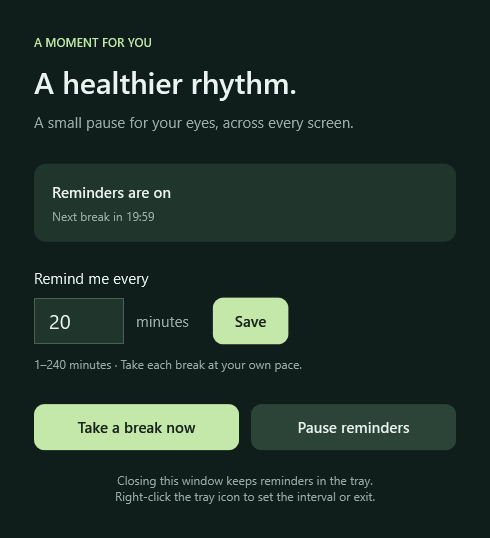
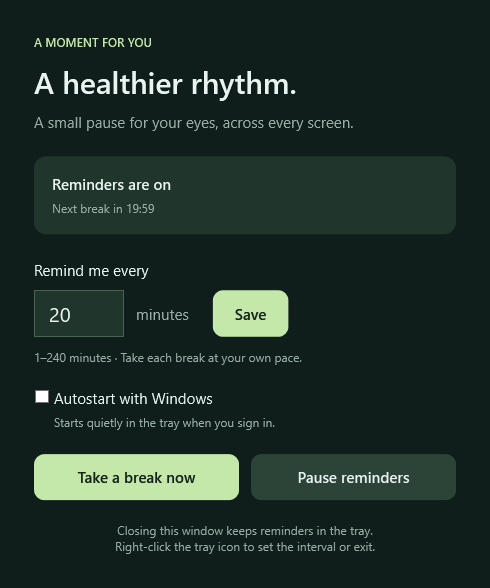
Add optional Windows autostart with quiet tray launch

diff --git a/SettingsWindow.xaml b/SettingsWindow.xaml
@@ -1,4 +1,4 @@
-<Window x:Class="MomentForYou.SettingsWindow" xmlns="http://schemas.microsoft.com/winfx/2006/xaml/presentation" xmlns:x="http://schemas.microsoft.com/winfx/2006/xaml" Title="A moment for you" Icon="Assets/MomentForYou.ico" Style="{StaticResource {x:Type Window}}" Width="490" Height="570" MinWidth="440" MinHeight="540" ResizeMode="CanMinimize" WindowStartupLocation="CenterScreen" Closing="OnClosing">
+<Window x:Class="MomentForYou.SettingsWindow" xmlns="http://schemas.microsoft.com/winfx/2006/xaml/presentation" xmlns:x="http://schemas.microsoft.com/winfx/2006/xaml" Title="A moment for you" Icon="Assets/MomentForYou.ico" Style="{StaticResource {x:Type Window}}" Width="490" Height="620" MinWidth="440" MinHeight="600" ResizeMode="CanMinimize" WindowStartupLocation="CenterScreen" Closing="OnClosing">
   <Grid Margin="34" TextElement.Foreground="{StaticResource Ink}">
     <Grid.RowDefinitions><RowDefinition Height="Auto"/><RowDefinition/><RowDefinition Height="Auto"/></Grid.RowDefinitions>
     <StackPanel>
@@ -11,6 +11,8 @@
       <TextBlock Text="Remind me every" FontSize="15" Margin="0,0,0,10"/>
       <StackPanel Orientation="Horizontal"><TextBox x:Name="Interval" Text="20" Width="90" Padding="12,9" FontSize="20" Background="#20362D" Foreground="{StaticResource Ink}" BorderBrush="#4B6252" MaxLength="3" AutomationProperties.Name="Reminder interval in minutes"/><TextBlock Text="minutes" FontSize="15" VerticalAlignment="Center" Foreground="{StaticResource Muted}" Margin="12,0,0,0"/><Button Content="Save" Click="OnSave" Margin="24,0,0,0" Padding="22,10"/></StackPanel>
       <TextBlock x:Name="Feedback" Text="1–240 minutes · Take each break at your own pace." FontSize="12" TextWrapping="Wrap" Foreground="{StaticResource Muted}" Margin="0,12,0,0"/>
+      <CheckBox x:Name="Autostart" Content="Autostart with Windows" Click="OnAutostart" Foreground="{StaticResource Ink}" FontSize="15" Cursor="Hand" Margin="0,24,0,0" AutomationProperties.Name="Autostart with Windows"/>
+      <TextBlock Text="Starts quietly in the tray when you sign in." FontSize="12" Foreground="{StaticResource Muted}" Margin="20,6,0,0"/>
     </StackPanel>
     <StackPanel Grid.Row="2">
       <Grid><Grid.ColumnDefinitions><ColumnDefinition/><ColumnDefinition Width="12"/><ColumnDefinition/></Grid.ColumnDefinitions><Button Content="Take a break now" Click="OnBreakNow" Padding="14,13"/><Button x:Name="PauseButton" Grid.Column="2" Content="Pause reminders" Click="OnPause" Background="#2C4438" Foreground="{StaticResource Ink}" Padding="14,13"/></Grid>

diff --git a/SelfTests.cs b/SelfTests.cs
@@ -10,6 +10,7 @@ using System.Windows.Interop;
 using System.Windows.Media;
 using System.Windows.Media.Imaging;
 using System.Windows.Navigation;
+using Microsoft.Win32;
 
 namespace MomentForYou;
 
@@ -226,6 +227,46 @@ internal static class SelfTests
             }
         });
         Test("Native tray icon, menu, pause and resume", () => ((App)Application.Current).VerifyTray());
+        Test("Autostart quotes paths, runs quietly, and removes only its own entry", () =>
+        {
+            var keyPath = @"Software\MomentForYou.AutostartTest-" + Guid.NewGuid().ToString("N");
+            var startup = new WindowsStartup(keyPath);
+            try
+            {
+                Assert(!startup.IsEnabled, "Autostart should be off without an entry.");
+                Assert(WindowsStartup.CreateCommand(@"C:\Program Files\A moment for you\A moment for you.exe") == "\"C:\\Program Files\\A moment for you\\A moment for you.exe\" --tray", "Autostart command is not quoted or quiet.");
+                startup.SetEnabled(true);
+                Assert(new WindowsStartup(keyPath).IsEnabled, "Autostart did not persist.");
+                using (var key = Registry.CurrentUser.OpenSubKey(keyPath, writable: true))
+                {
+                    Assert((string?)key!.GetValue("A moment for you") == WindowsStartup.CreateCommand(Environment.ProcessPath!), "Autostart did not use the running executable.");
+                    key.SetValue("Other app", "Keep this value");
+                }
+                startup.SetEnabled(false);
+                Assert(!startup.IsEnabled, "Autostart was not disabled.");
+                using var remaining = Registry.CurrentUser.OpenSubKey(keyPath);
+                Assert((string?)remaining?.GetValue("Other app") == "Keep this value", "Disabling autostart changed another entry.");
+            }
+            finally { Registry.CurrentUser.DeleteSubKey(keyPath, throwOnMissingSubKey: false); }
+        });
+        Test("Settings checkbox toggles autostart without enabling real Windows startup", () =>
+        {
+            var keyPath = @"Software\MomentForYou.AutostartTest-" + Guid.NewGuid().ToString("N");
+            var startup = new WindowsStartup(keyPath);
+            var window = new SettingsWindow((App)Application.Current, startup);
+            try
+            {
+                var checkbox = (CheckBox)window.FindName("Autostart");
+                Assert(checkbox.IsChecked == false, "Autostart checkbox should default to off.");
+                checkbox.IsChecked = true;
+                checkbox.RaiseEvent(new RoutedEventArgs(System.Windows.Controls.Primitives.ButtonBase.ClickEvent));
+                Assert(startup.IsEnabled, "Checkbox did not enable autostart.");
+                checkbox.IsChecked = false;
+                checkbox.RaiseEvent(new RoutedEventArgs(System.Windows.Controls.Primitives.ButtonBase.ClickEvent));
+                Assert(!startup.IsEnabled, "Checkbox did not disable autostart.");
+            }
+            finally { window.Hide(); Registry.CurrentUser.DeleteSubKey(keyPath, throwOnMissingSubKey: false); }
+        });
         Test("Version, author credit and homepage remain in the lower-right corner at common display scales", () =>
         {
             var window = new BreakWindow(() => { });
@@ -280,7 +321,7 @@ internal static class SelfTests
                 var outer = new System.Windows.Controls.Border { Background = settings.Background, Child = null };
                 settings.Content = null;
                 outer.Child = content;
-                RenderElement(outer, Path.Combine(directory, "settings-preview.png"), 490, 538);
+                RenderElement(outer, Path.Combine(directory, "settings-preview.png"), 490, 588);
             }
             finally { settings.Hide(); }
         }

diff --git a/SettingsWindow.xaml.cs b/SettingsWindow.xaml.cs
@@ -1,5 +1,7 @@
 using System;
 using System.ComponentModel;
+using System.IO;
+using System.Security;
 using System.Windows;
 
 namespace MomentForYou;
@@ -7,11 +9,23 @@ namespace MomentForYou;
 public partial class SettingsWindow : Window
 {
     private readonly App app;
-    public SettingsWindow(App app)
+    private readonly WindowsStartup startup;
+    private bool startupEnabled;
+
+    public SettingsWindow(App app) : this(app, new WindowsStartup()) { }
+
+    internal SettingsWindow(App app, WindowsStartup startup)
     {
         InitializeComponent();
         this.app = app;
+        this.startup = startup;
         Interval.Text = app.Schedule.IntervalMinutes.ToString();
+        try { Autostart.IsChecked = startupEnabled = startup.IsEnabled; }
+        catch (Exception ex) when (ex is IOException or UnauthorizedAccessException or SecurityException)
+        {
+            Autostart.IsEnabled = false;
+            Feedback.Text = "The Windows autostart setting is unavailable.";
+        }
     }
     public void Refresh()
     {
@@ -29,6 +43,21 @@ public partial class SettingsWindow : Window
         catch (Exception ex) when (ex is System.IO.IOException or UnauthorizedAccessException) { Feedback.Text = "Could not save settings. Check your folder permissions."; }
     }
     private void OnBreakNow(object sender, RoutedEventArgs e) => app.StartBreak();
+    private void OnAutostart(object sender, RoutedEventArgs e)
+    {
+        bool enabled = Autostart.IsChecked == true;
+        try
+        {
+            startup.SetEnabled(enabled);
+            startupEnabled = enabled;
+            Feedback.Text = enabled ? "Autostart enabled. Starts quietly when you sign in." : "Autostart disabled.";
+        }
+        catch (Exception ex) when (ex is IOException or UnauthorizedAccessException or SecurityException or InvalidOperationException)
+        {
+            Autostart.IsChecked = startupEnabled;
+            Feedback.Text = ex is InvalidOperationException ? ex.Message : "Could not change the Windows autostart setting.";
+        }
+    }
     private void OnPause(object sender, RoutedEventArgs e) => app.TogglePause();
     private void OnClosing(object? sender, CancelEventArgs e) { e.Cancel = true; Hide(); }
 }

diff --git a/WindowsStartup.cs b/WindowsStartup.cs
@@ -1,0 +1,53 @@
+using System;
+using System.IO;
+using Microsoft.Win32;
+
+namespace MomentForYou;
+
+internal sealed class WindowsStartup
+{
+    private const string ValueName = "A moment for you";
+    private readonly string keyPath;
+
+    internal WindowsStartup(string keyPath = @"Software\Microsoft\Windows\CurrentVersion\Run")
+    { this.keyPath = keyPath; }
+
+    internal bool IsEnabled
+    {
+        get
+        {
+            using var key = Registry.CurrentUser.OpenSubKey(keyPath);
+            return !string.IsNullOrWhiteSpace(key?.GetValue(ValueName) as string);
+        }
+    }
+
+    internal static string CreateCommand(string executable)
+    {
+        if (!Path.IsPathFullyQualified(executable) ||
+            !string.Equals(Path.GetExtension(executable), ".exe", StringComparison.OrdinalIgnoreCase) ||
+            string.Equals(Path.GetFileName(executable), "dotnet.exe", StringComparison.OrdinalIgnoreCase) ||
+            executable.Contains('"'))
+            throw new InvalidOperationException("Enable autostart from the published app executable.");
+        var command = "\"" + executable + "\" --tray";
+        if (command.Length > 260)
+            throw new InvalidOperationException("Move the app to a shorter folder path before enabling autostart.");
+        return command;
+    }
+
+    internal void SetEnabled(bool enabled)
+    {
+        if (enabled)
+        {
+            var command = CreateCommand(Environment.ProcessPath ??
+                throw new InvalidOperationException("Cannot find the app executable."));
+            using var key = Registry.CurrentUser.CreateSubKey(keyPath) ??
+                throw new IOException("Cannot access the Windows startup setting.");
+            key.SetValue(ValueName, command, RegistryValueKind.String);
+        }
+        else
+        {
+            using var key = Registry.CurrentUser.OpenSubKey(keyPath, writable: true);
+            key?.DeleteValue(ValueName, throwOnMissingValue: false);
+        }
+    }
+}

diff --git a/README.md b/README.md
@@ -43,7 +43,9 @@ This is a break reminder, not a Windows security lock. Windows shortcuts, the se
 
 Your interval is stored locally in `%LOCALAPPDATA%\EyeProtect\settings.json`. The original settings folder is retained so earlier versions keep their saved interval. The app does not send telemetry or make network requests.
 
-The app does not register itself for startup. To launch quietly, create a shortcut to **A moment for you.exe** with `--tray` as an argument; you can place that shortcut in your Windows Startup folder.
+Enable **Autostart with Windows** in settings to launch quietly in the tray whenever you sign in. The checkbox saves immediately, applies only to your Windows account, and needs no administrator access. Uncheck it to remove autostart. It is off by default.
+
+Keep the portable executable in the folder you intend to use. If you move it or replace it with a copy in a different folder, turn autostart off and on again in that copy to update its location. You can also launch quietly yourself with the `--tray` argument.
 
 ## Build and test
 
@@ -80,8 +82,8 @@ To publish a release:
 3. Push an annotated tag matching the project version:
 
 ```powershell
-git tag -a v1.0.4 -m "Release v1.0.4"
-git push origin v1.0.4
+git tag -a v1.0.5 -m "Release v1.0.5"
+git push origin v1.0.5
 ```
 
 The tag workflow validates the version, builds the app, runs its checks, packages it, and verifies checksums. Only after those steps succeed does it publish a GitHub release with the executable, ZIP, and checksum file. No personal access token or extra repository secret is required; the release job uses the repository's `GITHUB_TOKEN`.

diff --git a/docs/releases/v1.0.5.md b/docs/releases/v1.0.5.md
@@ -1,0 +1,9 @@
+# A moment for you v1.0.5
+
+- Adds **Autostart with Windows** in settings. When enabled, the app starts quietly in the tray when you sign in.
+- Autostart is off by default, saves immediately, applies to the current Windows account, and can be removed by unchecking the option. No administrator access is needed.
+- Refreshes the settings screenshot and expands the window to fit the new option.
+
+Keep the portable executable in a stable folder. If you move it, turn autostart off and on again from the new copy. Exit any older running copy from its tray menu before launching this version.
+
+The packaged app passes 22 automated checks. Autostart tests use isolated registry entries and do not enable actual Windows startup on the test PC.
